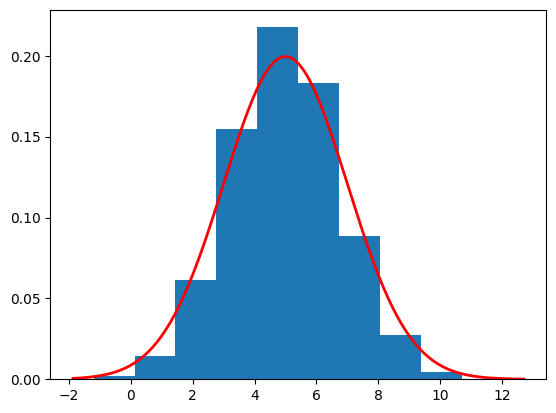
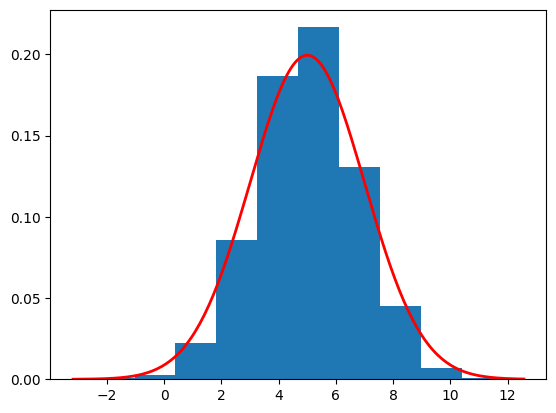
Added plot ddim

diff --git a/docs/posts/ddim/ddim.html b/docs/posts/ddim/ddim.html
@@ -274,7 +274,7 @@ window.Quarto = {
 <p><span class="math inline">\(\tilde{\beta}_2 = 1 - \frac{\bar{\alpha}_{i_2}}{\bar{\alpha}_{i_1}}\)</span></p>
 <p><span class="math inline">\(\tilde{\beta}_t = 1 - \frac{\bar{\alpha}_{i_t}}{\bar{\alpha}_{i_{t-1}}}\)</span></p>
 <p>Below we show how to code this up.</p>
-<div id="cell-4" class="cell" data-execution_count="3">
+<div id="cell-4" class="cell" data-execution_count="1">
 <div class="sourceCode cell-code" id="cb1"><pre class="sourceCode python code-with-copy"><code class="sourceCode python"><span id="cb1-1"><a href="#cb1-1" aria-hidden="true" tabindex="-1"></a><span class="im">import</span> numpy <span class="im">as</span> np</span>
 <span id="cb1-2"><a href="#cb1-2" aria-hidden="true" tabindex="-1"></a></span>
 <span id="cb1-3"><a href="#cb1-3" aria-hidden="true" tabindex="-1"></a><span class="co"># Create the beta</span></span>
@@ -313,9 +313,9 @@ The respaced alphas are the same: True</code></pre>
 </div>
 </div>
 <p>To check how well sample quality is with 10 respaced reverse steps, rather than 1000 we modify the exact DDPM to sample.</p>
-<div id="cell-6" class="cell" data-execution_count="5">
+<div id="cell-6" class="cell" data-execution_count="11">
 <div class="sourceCode cell-code" id="cb3"><pre class="sourceCode python code-with-copy"><code class="sourceCode python"><span id="cb3-1"><a href="#cb3-1" aria-hidden="true" tabindex="-1"></a><span class="im">import</span> torch</span>
-<span id="cb3-2"><a href="#cb3-2" aria-hidden="true" tabindex="-1"></a></span>
+<span id="cb3-2"><a href="#cb3-2" aria-hidden="true" tabindex="-1"></a><span class="im">import</span> time</span>
 <span id="cb3-3"><a href="#cb3-3" aria-hidden="true" tabindex="-1"></a><span class="im">import</span> numpy <span class="im">as</span> np</span>
 <span id="cb3-4"><a href="#cb3-4" aria-hidden="true" tabindex="-1"></a><span class="im">import</span> matplotlib.pyplot <span class="im">as</span> plt</span>
 <span id="cb3-5"><a href="#cb3-5" aria-hidden="true" tabindex="-1"></a>    </span>
@@ -354,30 +354,37 @@ The respaced alphas are the same: True</code></pre>
 <span id="cb3-38"><a href="#cb3-38" aria-hidden="true" tabindex="-1"></a><span class="co"># Use the beta_tilde from above</span></span>
 <span id="cb3-39"><a href="#cb3-39" aria-hidden="true" tabindex="-1"></a>diffusion <span class="op">=</span> Exact_DDPM(<span class="dv">10</span>, beta_tilde)</span>
 <span id="cb3-40"><a href="#cb3-40" aria-hidden="true" tabindex="-1"></a></span>
-<span id="cb3-41"><a href="#cb3-41" aria-hidden="true" tabindex="-1"></a>samples <span class="op">=</span> diffusion.reverse_diff(<span class="dv">10000</span>).numpy()</span>
-<span id="cb3-42"><a href="#cb3-42" aria-hidden="true" tabindex="-1"></a>plot_sample <span class="op">=</span> samples[<span class="dv">0</span>]</span>
-<span id="cb3-43"><a href="#cb3-43" aria-hidden="true" tabindex="-1"></a><span class="bu">print</span>(<span class="ss">f"Estimated mean is </span><span class="sc">{</span>np<span class="sc">.</span>mean(plot_sample)<span class="sc">}</span><span class="ss">"</span>)</span>
-<span id="cb3-44"><a href="#cb3-44" aria-hidden="true" tabindex="-1"></a><span class="bu">print</span>(<span class="ss">f"Estimated std is </span><span class="sc">{</span>np<span class="sc">.</span>std(plot_sample)<span class="sc">}</span><span class="ss">"</span>)</span>
-<span id="cb3-45"><a href="#cb3-45" aria-hidden="true" tabindex="-1"></a>plt.hist(plot_sample, density<span class="op">=</span><span class="va">True</span>)</span>
-<span id="cb3-46"><a href="#cb3-46" aria-hidden="true" tabindex="-1"></a></span>
-<span id="cb3-47"><a href="#cb3-47" aria-hidden="true" tabindex="-1"></a><span class="co"># Define parameters for the normal distribution</span></span>
-<span id="cb3-48"><a href="#cb3-48" aria-hidden="true" tabindex="-1"></a>mean <span class="op">=</span> <span class="fl">5.0</span></span>
-<span id="cb3-49"><a href="#cb3-49" aria-hidden="true" tabindex="-1"></a>std <span class="op">=</span> <span class="fl">2.0</span></span>
+<span id="cb3-41"><a href="#cb3-41" aria-hidden="true" tabindex="-1"></a>start_time <span class="op">=</span> time.time()</span>
+<span id="cb3-42"><a href="#cb3-42" aria-hidden="true" tabindex="-1"></a>samples <span class="op">=</span> diffusion.reverse_diff(<span class="dv">10000</span>).numpy()</span>
+<span id="cb3-43"><a href="#cb3-43" aria-hidden="true" tabindex="-1"></a>end_time <span class="op">=</span> time.time()</span>
+<span id="cb3-44"><a href="#cb3-44" aria-hidden="true" tabindex="-1"></a>elapsed_time <span class="op">=</span> end_time <span class="op">-</span> start_time</span>
+<span id="cb3-45"><a href="#cb3-45" aria-hidden="true" tabindex="-1"></a></span>
+<span id="cb3-46"><a href="#cb3-46" aria-hidden="true" tabindex="-1"></a>plot_sample <span class="op">=</span> samples[<span class="dv">0</span>]</span>
+<span id="cb3-47"><a href="#cb3-47" aria-hidden="true" tabindex="-1"></a><span class="bu">print</span>(<span class="ss">f"Estimated mean is </span><span class="sc">{</span>np<span class="sc">.</span>mean(plot_sample)<span class="sc">}</span><span class="ss">"</span>)</span>
+<span id="cb3-48"><a href="#cb3-48" aria-hidden="true" tabindex="-1"></a><span class="bu">print</span>(<span class="ss">f"Estimated std is </span><span class="sc">{</span>np<span class="sc">.</span>std(plot_sample)<span class="sc">}</span><span class="ss">"</span>)</span>
+<span id="cb3-49"><a href="#cb3-49" aria-hidden="true" tabindex="-1"></a><span class="bu">print</span>(<span class="ss">f"Function took </span><span class="sc">{</span>elapsed_time<span class="sc">:.4f}</span><span class="ss"> seconds to execute."</span>)</span>
 <span id="cb3-50"><a href="#cb3-50" aria-hidden="true" tabindex="-1"></a></span>
-<span id="cb3-51"><a href="#cb3-51" aria-hidden="true" tabindex="-1"></a><span class="co"># Create a range of x values</span></span>
-<span id="cb3-52"><a href="#cb3-52" aria-hidden="true" tabindex="-1"></a>xmin, xmax <span class="op">=</span> plt.xlim()</span>
-<span id="cb3-53"><a href="#cb3-53" aria-hidden="true" tabindex="-1"></a>x <span class="op">=</span> torch.linspace(xmin, xmax, <span class="dv">200</span>).numpy()</span>
-<span id="cb3-54"><a href="#cb3-54" aria-hidden="true" tabindex="-1"></a></span>
-<span id="cb3-55"><a href="#cb3-55" aria-hidden="true" tabindex="-1"></a><span class="co"># Compute the normal PDF: (1/(σ√(2π))) exp(-(x-μ)²/(2σ²))</span></span>
-<span id="cb3-56"><a href="#cb3-56" aria-hidden="true" tabindex="-1"></a>pdf <span class="op">=</span> (<span class="dv">1</span><span class="op">/</span>(std <span class="op">*</span> np.sqrt(<span class="dv">2</span><span class="op">*</span>np.pi))) <span class="op">*</span> np.exp(<span class="op">-</span><span class="fl">0.5</span><span class="op">*</span>((x <span class="op">-</span> mean)<span class="op">/</span>std)<span class="op">**</span><span class="dv">2</span>)</span>
-<span id="cb3-57"><a href="#cb3-57" aria-hidden="true" tabindex="-1"></a></span>
-<span id="cb3-58"><a href="#cb3-58" aria-hidden="true" tabindex="-1"></a><span class="co"># Plot the PDF line</span></span>
-<span id="cb3-59"><a href="#cb3-59" aria-hidden="true" tabindex="-1"></a>plt.plot(x, pdf, <span class="st">'r'</span>, linewidth<span class="op">=</span><span class="dv">2</span>)</span>
+<span id="cb3-51"><a href="#cb3-51" aria-hidden="true" tabindex="-1"></a>plt.hist(plot_sample, density<span class="op">=</span><span class="va">True</span>)</span>
+<span id="cb3-52"><a href="#cb3-52" aria-hidden="true" tabindex="-1"></a></span>
+<span id="cb3-53"><a href="#cb3-53" aria-hidden="true" tabindex="-1"></a><span class="co"># Define parameters for the normal distribution</span></span>
+<span id="cb3-54"><a href="#cb3-54" aria-hidden="true" tabindex="-1"></a>mean <span class="op">=</span> <span class="fl">5.0</span></span>
+<span id="cb3-55"><a href="#cb3-55" aria-hidden="true" tabindex="-1"></a>std <span class="op">=</span> <span class="fl">2.0</span></span>
+<span id="cb3-56"><a href="#cb3-56" aria-hidden="true" tabindex="-1"></a></span>
+<span id="cb3-57"><a href="#cb3-57" aria-hidden="true" tabindex="-1"></a><span class="co"># Create a range of x values</span></span>
+<span id="cb3-58"><a href="#cb3-58" aria-hidden="true" tabindex="-1"></a>xmin, xmax <span class="op">=</span> plt.xlim()</span>
+<span id="cb3-59"><a href="#cb3-59" aria-hidden="true" tabindex="-1"></a>x <span class="op">=</span> torch.linspace(xmin, xmax, <span class="dv">200</span>).numpy()</span>
 <span id="cb3-60"><a href="#cb3-60" aria-hidden="true" tabindex="-1"></a></span>
-<span id="cb3-61"><a href="#cb3-61" aria-hidden="true" tabindex="-1"></a>plt.show()</span></code><button title="Copy to Clipboard" class="code-copy-button"><i class="bi"></i></button></pre></div>
+<span id="cb3-61"><a href="#cb3-61" aria-hidden="true" tabindex="-1"></a><span class="co"># Compute the normal PDF: (1/(σ√(2π))) exp(-(x-μ)²/(2σ²))</span></span>
+<span id="cb3-62"><a href="#cb3-62" aria-hidden="true" tabindex="-1"></a>pdf <span class="op">=</span> (<span class="dv">1</span><span class="op">/</span>(std <span class="op">*</span> np.sqrt(<span class="dv">2</span><span class="op">*</span>np.pi))) <span class="op">*</span> np.exp(<span class="op">-</span><span class="fl">0.5</span><span class="op">*</span>((x <span class="op">-</span> mean)<span class="op">/</span>std)<span class="op">**</span><span class="dv">2</span>)</span>
+<span id="cb3-63"><a href="#cb3-63" aria-hidden="true" tabindex="-1"></a></span>
+<span id="cb3-64"><a href="#cb3-64" aria-hidden="true" tabindex="-1"></a><span class="co"># Plot the PDF line</span></span>
+<span id="cb3-65"><a href="#cb3-65" aria-hidden="true" tabindex="-1"></a>plt.plot(x, pdf, <span class="st">'r'</span>, linewidth<span class="op">=</span><span class="dv">2</span>)</span>
+<span id="cb3-66"><a href="#cb3-66" aria-hidden="true" tabindex="-1"></a></span>
+<span id="cb3-67"><a href="#cb3-67" aria-hidden="true" tabindex="-1"></a>plt.show()</span></code><button title="Copy to Clipboard" class="code-copy-button"><i class="bi"></i></button></pre></div>
 <div class="cell-output cell-output-stdout">
-<pre><code>Estimated mean is 4.992445945739746
-Estimated std is 1.7646558284759521</code></pre>
+<pre><code>Estimated mean is 5.0006537437438965
+Estimated std is 1.7662235498428345
+Function took 0.0275 seconds to execute.</code></pre>
 </div>
 <div class="cell-output cell-output-display">
 <div>
@@ -407,9 +414,9 @@ Estimated std is 1.7646558284759521</code></pre>
 <p>Finally we add some noise <span class="math inline">\((\sqrt{\beta}_t \boldsymbol{z}_t)\)</span>.</p>
 <p>This means that what the reverse diffusion actually does is it <strong>estimates</strong> <span class="math inline">\(\boldsymbol{x}_0\)</span> <strong>at each timestep</strong> and then uses that to create <span class="math inline">\(\boldsymbol{x}_{t-1}\)</span>.</p>
 <p>For the DDIM we do a similar thing. We first estimate <span class="math inline">\(\boldsymbol{x}_0\)</span> and then use is to sample from <span class="math inline">\(p(\boldsymbol{x}_{t-1}|\boldsymbol{x}_{t},\hat{\boldsymbol{x}}_{0})\)</span>.</p>
-<div id="cell-11" class="cell" data-execution_count="23">
+<div id="cell-11" class="cell">
 <div class="sourceCode cell-code" id="cb5"><pre class="sourceCode python code-with-copy"><code class="sourceCode python"><span id="cb5-1"><a href="#cb5-1" aria-hidden="true" tabindex="-1"></a><span class="im">import</span> torch</span>
-<span id="cb5-2"><a href="#cb5-2" aria-hidden="true" tabindex="-1"></a></span>
+<span id="cb5-2"><a href="#cb5-2" aria-hidden="true" tabindex="-1"></a><span class="im">import</span> time</span>
 <span id="cb5-3"><a href="#cb5-3" aria-hidden="true" tabindex="-1"></a><span class="im">import</span> numpy <span class="im">as</span> np</span>
 <span id="cb5-4"><a href="#cb5-4" aria-hidden="true" tabindex="-1"></a><span class="im">import</span> matplotlib.pyplot <span class="im">as</span> plt</span>
 <span id="cb5-5"><a href="#cb5-5" aria-hidden="true" tabindex="-1"></a>    </span>
@@ -465,30 +472,36 @@ Estimated std is 1.7646558284759521</code></pre>
 <span id="cb5-55"><a href="#cb5-55" aria-hidden="true" tabindex="-1"></a><span class="co"># Use the beta_tilde from above</span></span>
 <span id="cb5-56"><a href="#cb5-56" aria-hidden="true" tabindex="-1"></a>diffusion <span class="op">=</span> Exact_DDIM(<span class="dv">10</span>, beta_tilde)</span>
 <span id="cb5-57"><a href="#cb5-57" aria-hidden="true" tabindex="-1"></a></span>
-<span id="cb5-58"><a href="#cb5-58" aria-hidden="true" tabindex="-1"></a>samples <span class="op">=</span> diffusion.reverse_diff(<span class="dv">10000</span>).numpy()</span>
-<span id="cb5-59"><a href="#cb5-59" aria-hidden="true" tabindex="-1"></a>plot_sample <span class="op">=</span> samples[<span class="dv">0</span>]</span>
-<span id="cb5-60"><a href="#cb5-60" aria-hidden="true" tabindex="-1"></a><span class="bu">print</span>(<span class="ss">f"Estimated mean is </span><span class="sc">{</span>np<span class="sc">.</span>mean(plot_sample)<span class="sc">}</span><span class="ss">"</span>)</span>
-<span id="cb5-61"><a href="#cb5-61" aria-hidden="true" tabindex="-1"></a><span class="bu">print</span>(<span class="ss">f"Estimated std is </span><span class="sc">{</span>np<span class="sc">.</span>std(plot_sample)<span class="sc">}</span><span class="ss">"</span>)</span>
-<span id="cb5-62"><a href="#cb5-62" aria-hidden="true" tabindex="-1"></a>plt.hist(plot_sample, density<span class="op">=</span><span class="va">True</span>)</span>
-<span id="cb5-63"><a href="#cb5-63" aria-hidden="true" tabindex="-1"></a></span>
-<span id="cb5-64"><a href="#cb5-64" aria-hidden="true" tabindex="-1"></a><span class="co"># Define parameters for the normal distribution</span></span>
-<span id="cb5-65"><a href="#cb5-65" aria-hidden="true" tabindex="-1"></a>mean <span class="op">=</span> <span class="fl">5.0</span></span>
-<span id="cb5-66"><a href="#cb5-66" aria-hidden="true" tabindex="-1"></a>std <span class="op">=</span> <span class="fl">2.0</span></span>
-<span id="cb5-67"><a href="#cb5-67" aria-hidden="true" tabindex="-1"></a></span>
-<span id="cb5-68"><a href="#cb5-68" aria-hidden="true" tabindex="-1"></a><span class="co"># Create a range of x values</span></span>
-<span id="cb5-69"><a href="#cb5-69" aria-hidden="true" tabindex="-1"></a>xmin, xmax <span class="op">=</span> plt.xlim()</span>
-<span id="cb5-70"><a href="#cb5-70" aria-hidden="true" tabindex="-1"></a>x <span class="op">=</span> torch.linspace(xmin, xmax, <span class="dv">200</span>).numpy()</span>
-<span id="cb5-71"><a href="#cb5-71" aria-hidden="true" tabindex="-1"></a></span>
-<span id="cb5-72"><a href="#cb5-72" aria-hidden="true" tabindex="-1"></a><span class="co"># Compute the normal PDF: (1/(σ√(2π))) exp(-(x-μ)²/(2σ²))</span></span>
-<span id="cb5-73"><a href="#cb5-73" aria-hidden="true" tabindex="-1"></a>pdf <span class="op">=</span> (<span class="dv">1</span><span class="op">/</span>(std <span class="op">*</span> np.sqrt(<span class="dv">2</span><span class="op">*</span>np.pi))) <span class="op">*</span> np.exp(<span class="op">-</span><span class="fl">0.5</span><span class="op">*</span>((x <span class="op">-</span> mean)<span class="op">/</span>std)<span class="op">**</span><span class="dv">2</span>)</span>
-<span id="cb5-74"><a href="#cb5-74" aria-hidden="true" tabindex="-1"></a></span>
-<span id="cb5-75"><a href="#cb5-75" aria-hidden="true" tabindex="-1"></a><span class="co"># Plot the PDF line</span></span>
-<span id="cb5-76"><a href="#cb5-76" aria-hidden="true" tabindex="-1"></a>plt.plot(x, pdf, <span class="st">'r'</span>, linewidth<span class="op">=</span><span class="dv">2</span>)</span>
-<span id="cb5-77"><a href="#cb5-77" aria-hidden="true" tabindex="-1"></a></span>
-<span id="cb5-78"><a href="#cb5-78" aria-hidden="true" tabindex="-1"></a>plt.show()</span></code><button title="Copy to Clipboard" class="code-copy-button"><i class="bi"></i></button></pre></div>
+<span id="cb5-58"><a href="#cb5-58" aria-hidden="true" tabindex="-1"></a>start_time <span class="op">=</span> time.time()</span>
+<span id="cb5-59"><a href="#cb5-59" aria-hidden="true" tabindex="-1"></a>samples <span class="op">=</span> diffusion.reverse_diff(<span class="dv">10000</span>).numpy()</span>
+<span id="cb5-60"><a href="#cb5-60" aria-hidden="true" tabindex="-1"></a>end_time <span class="op">=</span> time.time()</span>
+<span id="cb5-61"><a href="#cb5-61" aria-hidden="true" tabindex="-1"></a>elapsed_time <span class="op">=</span> end_time <span class="op">-</span> start_time</span>
+<span id="cb5-62"><a href="#cb5-62" aria-hidden="true" tabindex="-1"></a></span>
+<span id="cb5-63"><a href="#cb5-63" aria-hidden="true" tabindex="-1"></a>plot_sample <span class="op">=</span> samples[<span class="dv">0</span>]</span>
+<span id="cb5-64"><a href="#cb5-64" aria-hidden="true" tabindex="-1"></a><span class="bu">print</span>(<span class="ss">f"Estimated mean is </span><span class="sc">{</span>np<span class="sc">.</span>mean(plot_sample)<span class="sc">}</span><span class="ss">"</span>)</span>
+<span id="cb5-65"><a href="#cb5-65" aria-hidden="true" tabindex="-1"></a><span class="bu">print</span>(<span class="ss">f"Estimated std is </span><span class="sc">{</span>np<span class="sc">.</span>std(plot_sample)<span class="sc">}</span><span class="ss">"</span>)</span>
+<span id="cb5-66"><a href="#cb5-66" aria-hidden="true" tabindex="-1"></a><span class="bu">print</span>(<span class="ss">f"Function took </span><span class="sc">{</span>elapsed_time<span class="sc">:.4f}</span><span class="ss"> seconds to execute."</span>)</span>
+<span id="cb5-67"><a href="#cb5-67" aria-hidden="true" tabindex="-1"></a>plt.hist(plot_sample, density<span class="op">=</span><span class="va">True</span>)</span>
+<span id="cb5-68"><a href="#cb5-68" aria-hidden="true" tabindex="-1"></a></span>
+<span id="cb5-69"><a href="#cb5-69" aria-hidden="true" tabindex="-1"></a><span class="co"># Define parameters for the normal distribution</span></span>
+<span id="cb5-70"><a href="#cb5-70" aria-hidden="true" tabindex="-1"></a>mean <span class="op">=</span> <span class="fl">5.0</span></span>
+<span id="cb5-71"><a href="#cb5-71" aria-hidden="true" tabindex="-1"></a>std <span class="op">=</span> <span class="fl">2.0</span></span>
+<span id="cb5-72"><a href="#cb5-72" aria-hidden="true" tabindex="-1"></a></span>
+<span id="cb5-73"><a href="#cb5-73" aria-hidden="true" tabindex="-1"></a><span class="co"># Create a range of x values</span></span>
+<span id="cb5-74"><a href="#cb5-74" aria-hidden="true" tabindex="-1"></a>xmin, xmax <span class="op">=</span> plt.xlim()</span>
+<span id="cb5-75"><a href="#cb5-75" aria-hidden="true" tabindex="-1"></a>x <span class="op">=</span> torch.linspace(xmin, xmax, <span class="dv">200</span>).numpy()</span>
+<span id="cb5-76"><a href="#cb5-76" aria-hidden="true" tabindex="-1"></a></span>
+<span id="cb5-77"><a href="#cb5-77" aria-hidden="true" tabindex="-1"></a><span class="co"># Compute the normal PDF: (1/(σ√(2π))) exp(-(x-μ)²/(2σ²))</span></span>
+<span id="cb5-78"><a href="#cb5-78" aria-hidden="true" tabindex="-1"></a>pdf <span class="op">=</span> (<span class="dv">1</span><span class="op">/</span>(std <span class="op">*</span> np.sqrt(<span class="dv">2</span><span class="op">*</span>np.pi))) <span class="op">*</span> np.exp(<span class="op">-</span><span class="fl">0.5</span><span class="op">*</span>((x <span class="op">-</span> mean)<span class="op">/</span>std)<span class="op">**</span><span class="dv">2</span>)</span>
+<span id="cb5-79"><a href="#cb5-79" aria-hidden="true" tabindex="-1"></a></span>
+<span id="cb5-80"><a href="#cb5-80" aria-hidden="true" tabindex="-1"></a><span class="co"># Plot the PDF line</span></span>
+<span id="cb5-81"><a href="#cb5-81" aria-hidden="true" tabindex="-1"></a>plt.plot(x, pdf, <span class="st">'r'</span>, linewidth<span class="op">=</span><span class="dv">2</span>)</span>
+<span id="cb5-82"><a href="#cb5-82" aria-hidden="true" tabindex="-1"></a></span>
+<span id="cb5-83"><a href="#cb5-83" aria-hidden="true" tabindex="-1"></a>plt.show()</span></code><button title="Copy to Clipboard" class="code-copy-button"><i class="bi"></i></button></pre></div>
 <div class="cell-output cell-output-stdout">
-<pre><code>Estimated mean is 4.973484516143799
-Estimated std is 1.6710020303726196</code></pre>
+<pre><code>Estimated mean is 4.936343193054199
+Estimated std is 1.7014093399047852
+Function took 0.0140 seconds to execute.</code></pre>
 </div>
 <div class="cell-output cell-output-display">
 <div>
@@ -499,6 +512,41 @@ Estimated std is 1.6710020303726196</code></pre>
 </div>
 </div>
 <p>We see slightly worse results for the estimated mean and std. It is important to check both methods when attempting sampling to see which one performs better for your specific task.</p>
+<p>Below we compare the results from the 3 methods. Note that the results were created by 10000 samples. Since our models contains randomness we get slightly different results on each run!</p>
+<table class="caption-top table">
+<thead>
+<tr class="header">
+<th>Method</th>
+<th>Timesteps</th>
+<th>Sampling Speed (s)</th>
+<th>Mean</th>
+<th>Std</th>
+</tr>
+</thead>
+<tbody>
+<tr class="odd">
+<td>DDPM</td>
+<td>1000</td>
+<td>0.3716</td>
+<td>5.004</td>
+<td>1.98</td>
+</tr>
+<tr class="even">
+<td>DDPM</td>
+<td>10</td>
+<td>0.0275</td>
+<td>5.001</td>
+<td>1.76</td>
+</tr>
+<tr class="odd">
+<td>DDIM</td>
+<td>10</td>
+<td>0.0140</td>
+<td>4.936</td>
+<td>1.70</td>
+</tr>
+</tbody>
+</table>
 
 
 </section>

diff --git a/docs/about.html b/docs/about.html
@@ -215,7 +215,7 @@ window.Quarto = {
 
 <div class="quarto-listing quarto-listing-container-default" id="listing-listing">
 <div class="list quarto-listing-default">
-<div class="quarto-post image-right" data-index="0" data-categories="diffusion,tutorial" data-listing-date-sort="1734645600000" data-listing-file-modified-sort="1734723903724" data-listing-date-modified-sort="NaN" data-listing-reading-time-sort="5" data-listing-word-count-sort="865">
+<div class="quarto-post image-right" data-index="0" data-categories="diffusion,tutorial" data-listing-date-sort="1734645600000" data-listing-file-modified-sort="1734785477900" data-listing-date-modified-sort="NaN" data-listing-reading-time-sort="6" data-listing-word-count-sort="1016">
 <div class="thumbnail">
 <p><a href="./posts/ddim/ddim.html" class="no-external"></a></p><a href="./posts/ddim/ddim.html" class="no-external">
 <p class="card-img-top"><img src="posts\ddim\ddim_img.jpeg"  class="thumbnail-image card-img"/></p>
@@ -323,7 +323,7 @@ Andreas Makris
 </a>
 </div>
 </div>
-<div class="quarto-post image-right" data-index="3" data-categories="diffusion" data-listing-date-sort="1734213600000" data-listing-file-modified-sort="1734723761785" data-listing-date-modified-sort="NaN" data-listing-reading-time-sort="8" data-listing-word-count-sort="1574">
+<div class="quarto-post image-right" data-index="3" data-categories="diffusion" data-listing-date-sort="1734213600000" data-listing-file-modified-sort="1734785494342" data-listing-date-modified-sort="NaN" data-listing-reading-time-sort="8" data-listing-word-count-sort="1574">
 <div class="thumbnail">
 <p><a href="./posts/Diffusion/index.html" class="no-external"></a></p><a href="./posts/Diffusion/index.html" class="no-external">
 <p><img loading="lazy" src="./posts/Diffusion/sde_ddpm.png" class="thumbnail-image"></p>
